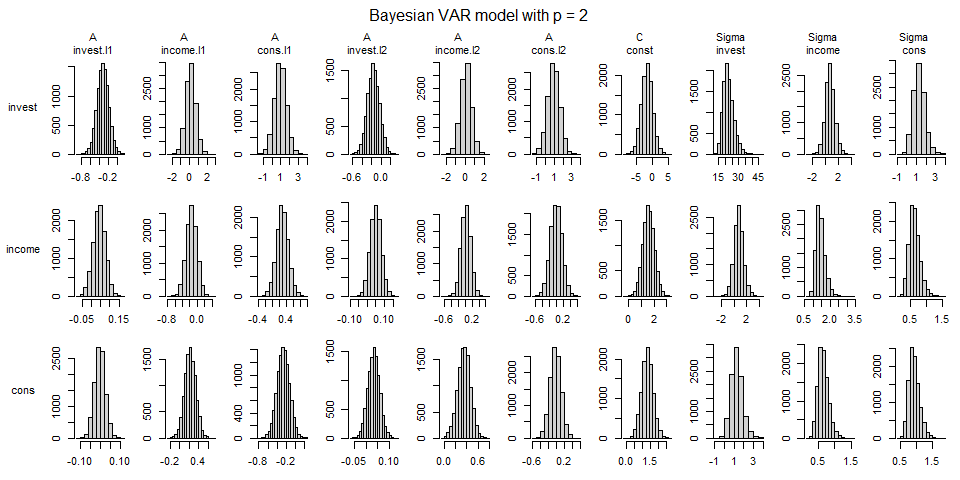
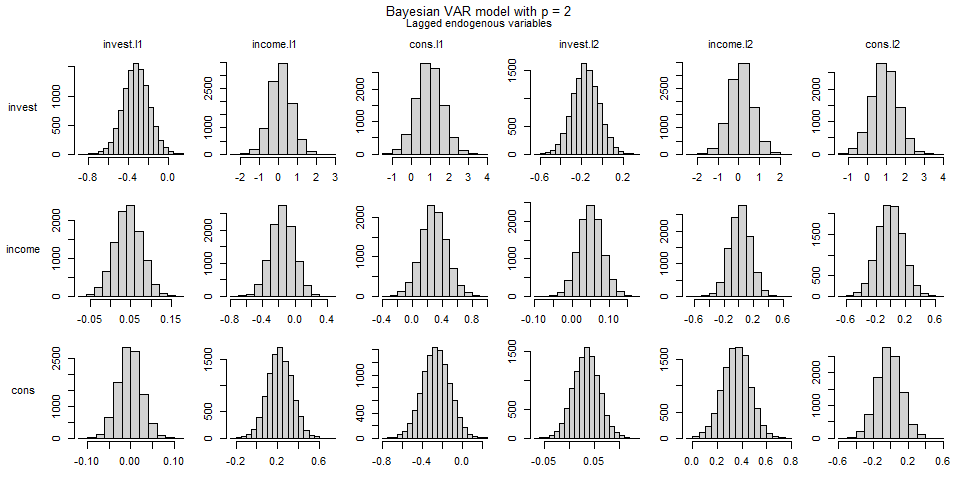
Bring the README up to what the package now does
The overview had drifted from the package in both directions. Three
capabilities were missing from it: sign restrictions, the connectedness
measures of Diebold and Yilmaz (2012) behind spillover(), and writing an
estimated model to HDF5 and reading it back. WAIC joins the in-sample
measures it lists, and the impulse response entry now says that an
identification can be supplied by the caller.

In the other direction it still advertised dynamic factor models, which
are not in the package at all any more -- no NAMESPACE entry, no file in
R/. They moved to dfmtools, which the sentence now points at instead.

The footnote on time varying cointegration said the autocorrelation
coefficient was held fixed and that drawing it was left to a future
release. That release has happened: it is drawn once add_priors is given
rho_min and rho_max, and held fixed only when they are not named.

Diebold and Yilmaz (2012) and Uhlig (2005) are added to the references
for the two new entries, in the alphabetical order the list is kept in.
Typographical fixes to the lines already being touched: estiamtes,
algortihms, algorthms, Gerorge twice, modol, althorithm, Poirer, Chip
for Chib, and contemporary where the VEC list says contemporaneous.

README.md and its figures are regenerated from README.Rmd with
devtools::build_readme() rather than edited. The histogram and trace
chunks now emit one figure per equation instead of one in total, which
[…]

diff --git a/README.md b/README.md
@@ -31,21 +31,27 @@ workflow into multiple steps:
     expanding window estimation.
   - Set prior hyperparameters either manually or based on established
     approaches such as the Minnesota prior.
-  - Set initial values based on maximum likelihood estiamtes or drawing
+  - Set initial values based on maximum likelihood estimates or drawing
     from a prior.
 - *Posterior simulation*
   - Perform posterior simulation of coefficients, forecasts and
-    likelihoods using algortihms from the
+    likelihoods using algorithms from the
     [BayesTS](github.com/franzmohr/BayesTS) library.
-  - Researchers can also choose to use they own algorthms.
+  - Researchers can also choose to use their own algorithms.
 - *Evaluation*
   - Traditional summary statistics for individual coefficients
-  - In-sample performance measures (LL, AIC, BIC, HQ)
+  - In-sample performance measures (LL, AIC, BIC, HQ, WAIC)
   - Out-of-sample performance (MAFE, RMSFE)
 - *Application*
   - Forecasts
-  - Impulse response functions
+  - Impulse response functions, including sign-restricted and
+    caller-supplied identifications
   - Forecast error variance decomposition
+  - Connectedness and spillover measures à la Diebold and Yilmaz (2012)
+- *Storage*
+  - Write an estimated model to HDF5 and read it back, one model per
+    file or several addressed by group, so a long simulation need not be
+    repeated to be analysed again.
 
 In each step researchers are provided with the opportunity to fine-tune
 a model according to their specific requirements or to use the default
@@ -57,12 +63,14 @@ For Bayesian inference of *VAR models* the package covers
 
 - Standard BVAR models with independent normal-Wishart priors
 - BVAR models employing stochastic search variable selection à la
-  Gerorge, Sun and Ni (2008)
+  George, Sun and Ni (2008)
 - BVAR models employing Bayesian variable selection à la Korobilis
   (2013)
 - Structural BVAR models, where the structural coefficients are
-  estimated from contemporary endogenous variables (A-model)
-- Stochastic volatility (SV) of the errors à la Kim, Shephard and Chip
+  estimated from contemporaneous endogenous variables (A-model)
+- Sign restrictions, which identify the shocks by the signs of the
+  impulse responses they produce à la Uhlig (2005)
+- Stochastic volatility (SV) of the errors à la Kim, Shephard and Chib
   (1998)
 - Time varying parameter models (TVP-VAR)
 - Bayesian quantile VARs, which estimate a conditional quantile instead
@@ -75,20 +83,21 @@ space – in the following variants
 
 - The BVEC model as presented in Koop, León-González and Strachan (2010)
 - The KLS model employing stochastic search variable selection à la
-  Gerorge, Sun and Ni (2008)
-- The KLS modol employing Bayesian variable selection à la Korobilis
+  George, Sun and Ni (2008)
+- The KLS model employing Bayesian variable selection à la Korobilis
   (2013)
 - Structural BVEC models, where the structural coefficients are
   estimated from contemporaneous endogenous variables (A-model).
   However, no further restrictions are made regarding the cointegration
   term.
-- Stochastic volatility (SV) of the errors à la Kim, Shephard and Chip
+- Stochastic volatility (SV) of the errors à la Kim, Shephard and Chib
   (1998)
 - Time varying parameter models (TVP-VEC) à la Koop, León-González and
   Strachan (2011)[^1]
 
-For Bayesian inference of *dynamic factor models* the package implements
-the althorithm used in the textbook of Chan, Koop, Poirer and Tobias
+*Dynamic factor models* are no longer part of this package. They moved
+to [dfmtools](https://github.com/franzmohr/dfmtools), which implements
+the algorithm used in the textbook of Chan, Koop, Poirier and Tobias
 (2019).
 
 Similar packages worth checking out are
@@ -385,7 +394,7 @@ coefficients.
 plot(bvar_est)
 ```
 
-<img src="man/figures/README-unnamed-chunk-6-1.png" alt="" style="display: block; margin: auto;" />
+<img src="man/figures/README-unnamed-chunk-6-1.png" alt="" style="display: block; margin: auto;" /><img src="man/figures/README-unnamed-chunk-6-2.png" alt="" style="display: block; margin: auto;" /><img src="man/figures/README-unnamed-chunk-6-3.png" alt="" style="display: block; margin: auto;" />
 
 Alternatively, the trace plot of the post-burnin draws can be draws by
 adding the argument `type = "trace"`:
@@ -394,7 +403,7 @@ adding the argument `type = "trace"`:
 plot(bvar_est, type = "trace")
 ```
 
-<img src="man/figures/README-unnamed-chunk-7-1.png" alt="" style="display: block; margin: auto;" />
+<img src="man/figures/README-unnamed-chunk-7-1.png" alt="" style="display: block; margin: auto;" /><img src="man/figures/README-unnamed-chunk-7-2.png" alt="" style="display: block; margin: auto;" /><img src="man/figures/README-unnamed-chunk-7-3.png" alt="" style="display: block; margin: auto;" />
 
 ### Summary statistics
 
@@ -568,6 +577,11 @@ plot(bvar_fevd, main = "FEVD of consumption")
 
 ## References
 
+Diebold, F. X., & Yilmaz, K. (2012). Better to give than to receive:
+Predictive directional measurement of volatility spillovers.
+*International Journal of Forecasting, 28*(1), 57-66.
+<https://doi.org/10.1016/j.ijforecast.2011.02.006>
+
 Eddelbuettel, D., & Sanderson C. (2014). RcppArmadillo: Accelerating R
 with high-performance C++ linear algebra. *Computational Statistics and
 Data Analysis, 71*, 1054-1063.
@@ -605,7 +619,15 @@ Sanderson, C., & Curtin, R. (2016). Armadillo: a template-based C++
 library for linear algebra. *Journal of Open Source Software, 1*(2), 26.
 <https://doi.org/10.21105/joss.00026>
 
-[^1]: In contrast to Koop et al. (2011) version 0.2.1 assumes a fixed
-    value for the autocorrelation coefficient of the time varying
-    cointegration space. A step for drawing this coefficient will be
-    introduced in a future release.
+Uhlig, H. (2005). What are the effects of monetary policy on output?
+Results from an agnostic identification procedure. *Journal of Monetary
+Economics, 52*(2), 381-419.
+<https://doi.org/10.1016/j.jmoneco.2004.05.007>
+
+[^1]: The autocorrelation coefficient of the time varying cointegration
+    space is drawn along with the other parameters once `add_priors` is
+    given the bounds `coint$rho_min` and `coint$rho_max` of a uniform
+    prior on it. Name neither and it is held fixed at `coint$rho`, which
+    is what versions up to 0.2.1 always did. The draw is an exact Gibbs
+    block rather than the Metropolis-within-Gibbs step of Koop et
+    al. (2011); `?add_priors` explains where the two models differ.
